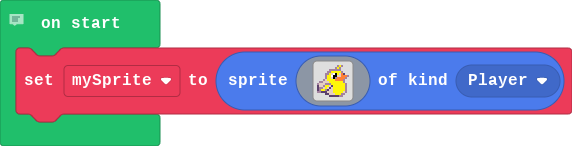
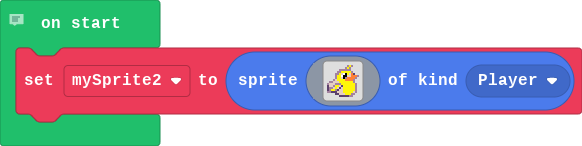
Update main.blocks, main.ts

diff --git a/main.ts b/main.ts
@@ -1,5 +1,5 @@
 // Don't forget to comment your code as you work!
-let mySprite = sprites.create(img`
+let mySprite2 = sprites.create(img`
     . . . . . . . . . . b 5 b . . . 
     . . . . . . . . . b 5 b . . . . 
     . . . . . . b b b b b b . . . . 
